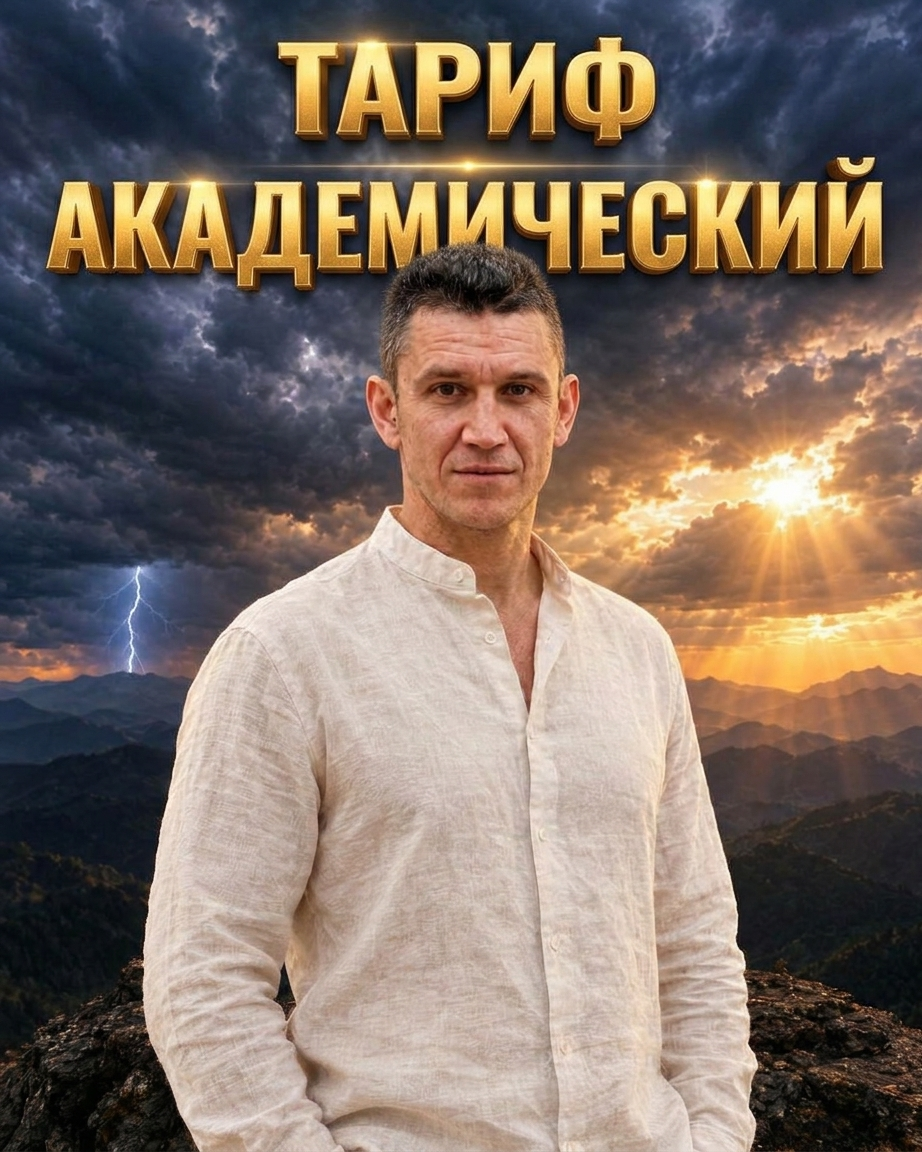
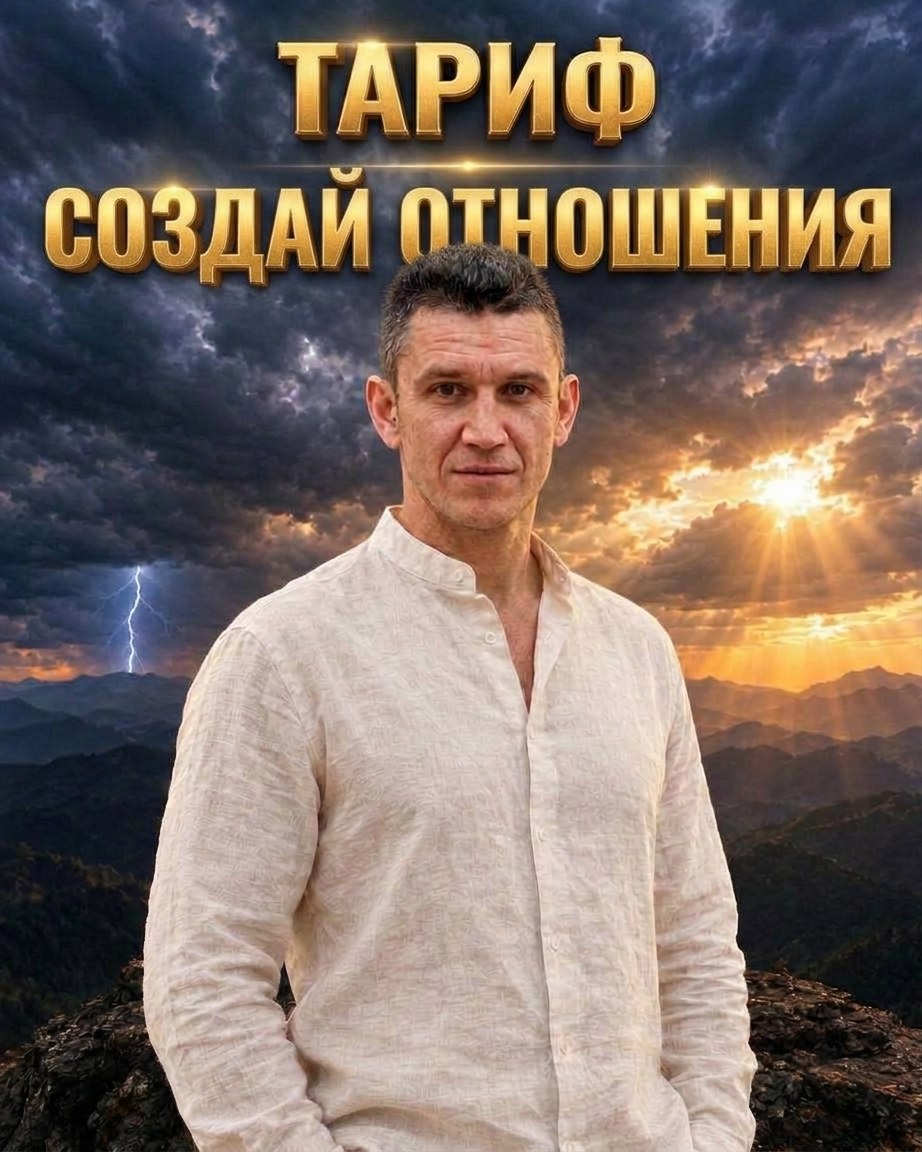
Картинки тарифов: «Познай себя» и «Создай отношения» вместо «Лайт» и «Академический»

Changed region(s): [[0.0304, 0.125, 0.9718, 0.2812], [0.9718, 0.9062, 1.0, 0.9375]]

diff --git a/index.html b/index.html
@@ -356,7 +356,7 @@ body[data-plate="dark"] .plateSw i{transform:rotate(180deg)}
 <!-- ================= TARIFF: LITE ================= -->
 <section class="view" data-view="tariff-lite">
   <header class="top"><a class="back" href="#/academy" aria-label="Назад"><svg viewBox="0 0 24 24"><path d="M15 5l-7 7 7 7"/></svg></a><div><b>Тариф «Познай себя»</b><span>Академия Духовной Психологии</span></div></header>
-  <figure class="herop mid" style="height:auto;aspect-ratio:1/1"><img src="img/hero-tariff-lite.jpg" alt="Тариф Познай себя" style="object-position:50% 0%"></figure>
+  <figure class="herop mid" style="height:auto;aspect-ratio:1/1"><img src="img/hero-tariff-lite.jpg?v=0511" alt="Тариф Познай себя" style="object-position:50% 0%"></figure>
   <div class="ph rv"><div class="eyebrow">Тариф 1</div><h2>Личная трансформация за <em>1 месяц</em></h2></div>
   <article class="card rv" style="--i:1">
     <div class="save24"><svg viewBox="0 0 24 24"><use href="#clk"/></svg><span>Стоимость и особые условия подберём для вас на бесплатной диагностике. Записывайтесь</span></div>
@@ -376,7 +376,7 @@ body[data-plate="dark"] .plateSw i{transform:rotate(180deg)}
 <!-- ================= TARIFF: ACADEMIC ================= -->
 <section class="view" data-view="tariff-academic">
   <header class="top"><a class="back" href="#/academy" aria-label="Назад"><svg viewBox="0 0 24 24"><path d="M15 5l-7 7 7 7"/></svg></a><div><b>Тариф «Создай отношения»</b><span>Академия Духовной Психологии</span></div></header>
-  <figure class="herop mid" style="height:auto;aspect-ratio:1/1"><img src="img/hero-tariff-acad.jpg" alt="Тариф Создай отношения" style="object-position:50% 0%"></figure>
+  <figure class="herop mid" style="height:auto;aspect-ratio:1/1"><img src="img/hero-tariff-acad.jpg?v=0511" alt="Тариф Создай отношения" style="object-position:50% 0%"></figure>
   <div class="ph rv"><div class="eyebrow">Личное наставничество</div><h2><em>2,5 месяца</em> рядом с наставником</h2></div>
   <article class="card hl rv" style="--i:1">
     <div class="save24"><svg viewBox="0 0 24 24"><use href="#clk"/></svg><span>Стоимость и особые условия подберём для вас на бесплатной диагностике. Записывайтесь</span></div>
